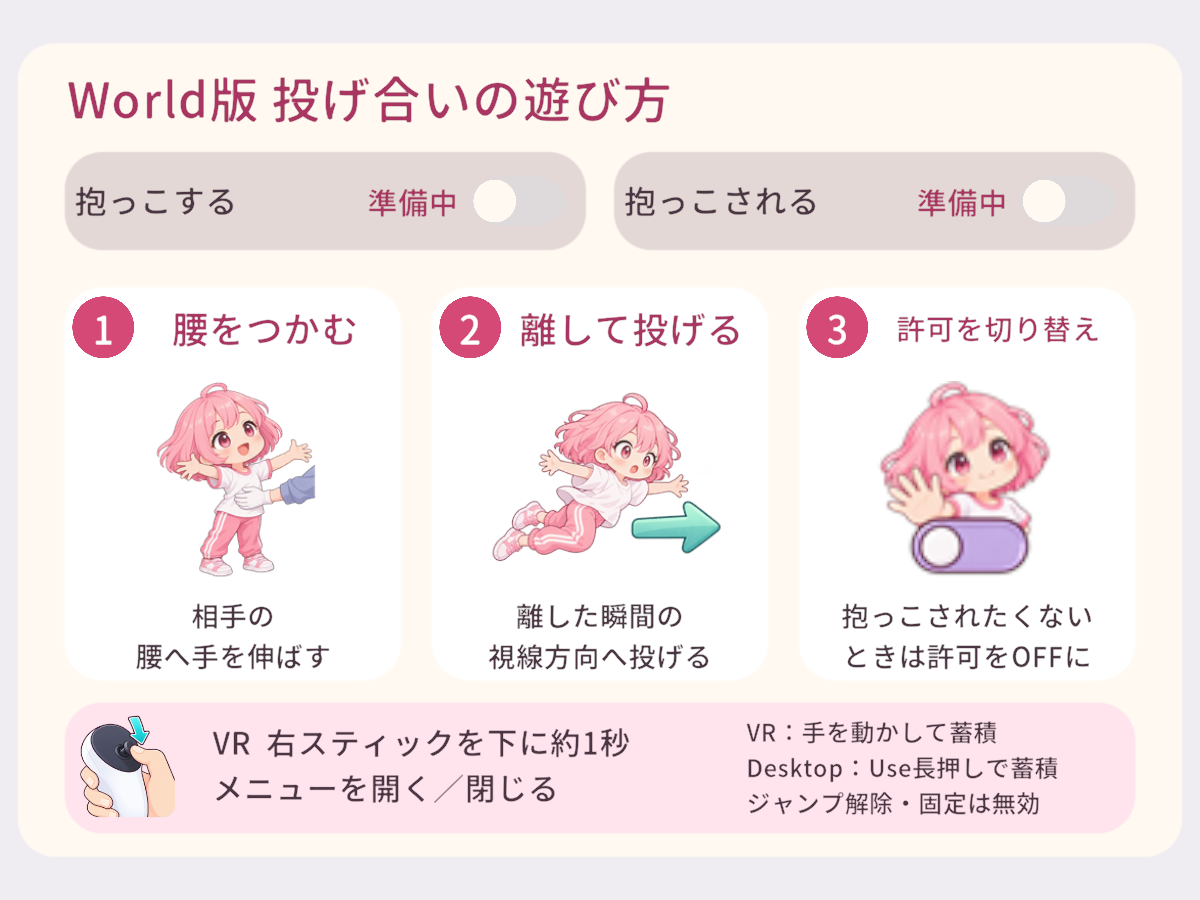
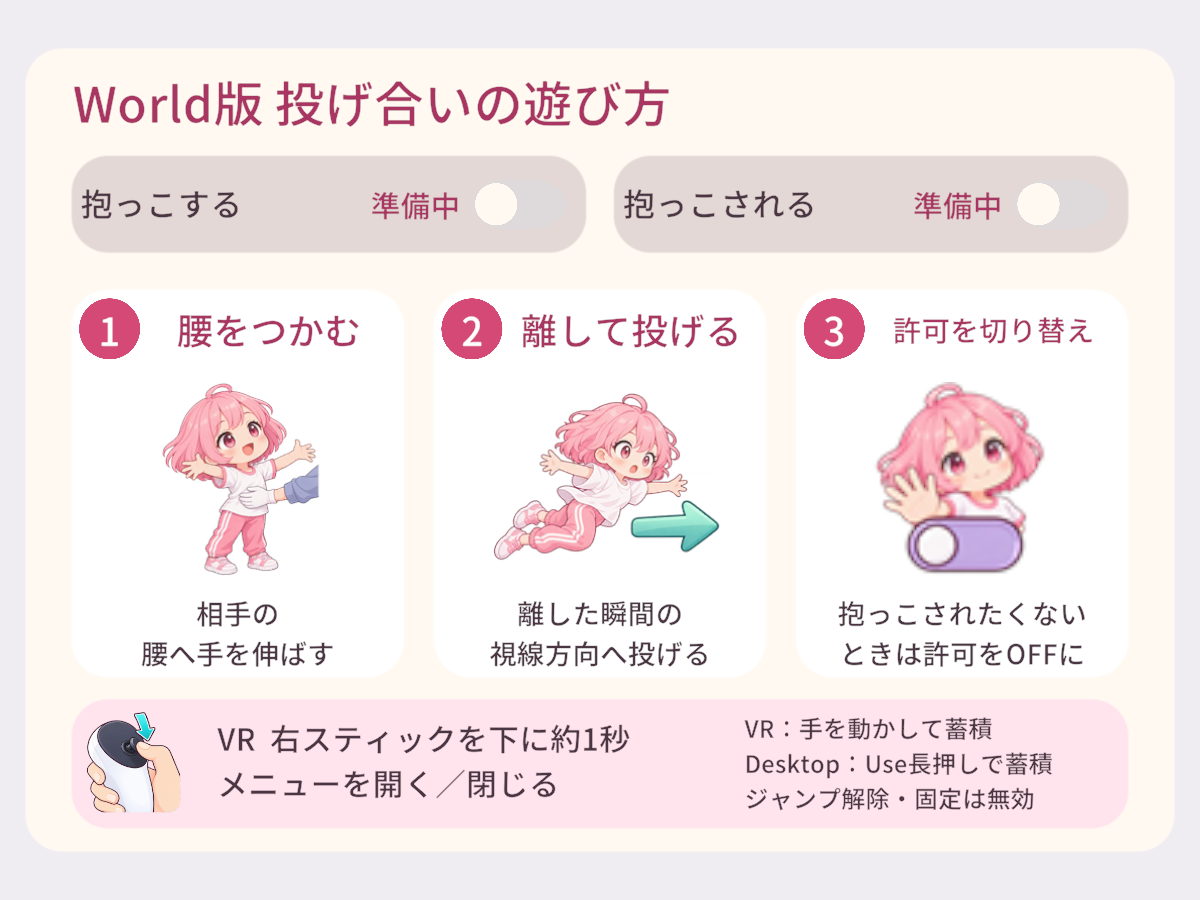
0.1.0-beta.1

diff --git a/docs/_includes/contact.html b/docs/_includes/contact.html
@@ -1,0 +1,28 @@
+<section class="contact-section" id="contact" aria-labelledby="contact-heading">
+  <h2 id="contact-heading">不具合・不明点のお問い合わせ</h2>
+  <p>導入や操作で分からないこと、不具合の報告は、Discord「あらまあ素敵なショップ」の問い合わせチャンネルへお寄せください。ワールドで遊ぶ方・ワールド制作者のどちらもご利用いただけます。</p>
+  <div class="action-row"><a class="primary" href="https://discord.gg/BJ3BpVnMna" target="_blank" rel="noopener noreferrer">Discordで問い合わせる（別タブ）</a></div>
+  <div class="contact-guide">
+    <div>
+      <ol>
+        <li>上のリンクからDiscordサーバーに参加します。</li>
+        <li>チャンネル一覧の「交流・お問い合わせ」を開きます。</li>
+        <li>「📩┃問い合わせ┃」でご相談ください。</li>
+      </ol>
+      <p>分かる範囲で、次の情報を添えていただくと状況を確認しやすくなります。</p>
+      <ul>
+        <li>分からないこと、または起きた現象と期待した動作</li>
+        <li>現象が起きるまでの手順・使用しているモード</li>
+        <li>利用環境（PCのDesktop／PCVR／Questなど）</li>
+        <li>可能であれば、画面の画像や動画、表示されたエラー</li>
+      </ul>
+      <p>ワールド制作者の方は、使用中のパッケージ・Unity・Worlds SDKのバージョンも、分かる範囲でお知らせください。</p>
+    </div>
+    <figure class="contact-shot">
+      <a href="{{ '/assets/img/discord-contact.webp' | relative_url }}" target="_blank" rel="noopener noreferrer" aria-label="Discordの問い合わせチャンネルの画像を拡大表示">
+        <img src="{{ '/assets/img/discord-contact.webp' | relative_url }}" width="322" height="472" alt="Discordのチャンネル一覧。「交流・お問い合わせ」の中にある「問い合わせ」チャンネルを選ぶ。" loading="lazy" decoding="async">
+      </a>
+      <figcaption>「交流・お問い合わせ」内の問い合わせチャンネル（画像をクリックすると拡大できます）。</figcaption>
+    </figure>
+  </div>
+</section>

diff --git a/docs/assets/css/custom.css b/docs/assets/css/custom.css
@@ -77,3 +77,12 @@
 .install-menu-shot.install-vcc-shot{max-width:1172px}
 .install-menu-shot.install-vcc-shot img{max-width:1172px}
 .install-vcc-shot a:focus-visible{outline:3px solid var(--rose);outline-offset:3px}
+
+/* Contact guide: preserve the supplied screenshot at its native size. */
+.contact-section{margin-top:2rem;padding-top:1rem;border-top:1px solid var(--line)}
+.contact-guide{display:grid;grid-template-columns:minmax(0,1fr) minmax(0,322px);gap:1.5rem;align-items:start}
+.contact-shot{margin:1rem 0;max-width:322px}
+.contact-shot a{display:block;line-height:0}
+.contact-shot img{display:block;width:100%;height:auto;margin:0!important}
+.contact-shot figcaption{font-size:.84rem;color:var(--muted);line-height:1.5;margin-top:.5rem}
+@media(max-width:700px){.contact-guide{grid-template-columns:1fr;gap:.5rem}}

diff --git a/docs/_includes/head_custom.html b/docs/_includes/head_custom.html
@@ -1,7 +1,7 @@
 <meta name="theme-color" content="#dd739e">
 {% assign page_title = page.title | default: site.title | escape %}
 {% assign page_desc = page.description | default: site.description | escape %}
-{% assign page_url = page.url | relative_url | absolute_url %}
+{% assign page_url = page.url | absolute_url %}
 <link rel="canonical" href="{{ page_url }}">
 <meta property="og:type" content="website">
 <meta property="og:locale" content="ja_JP">

diff --git a/docs/play.md b/docs/play.md
@@ -16,7 +16,12 @@ permalink: /play/
   <div class="guide"><img src="{{ '/assets/img/permission.webp' | relative_url }}" alt="許可スイッチのイラスト"><b>UIのスイッチで許可を選択</b><small>「抱っこする」と「抱っこされる」をそれぞれ設定</small></div>
 </div>
 
-**Desktop：** ワールド内に置かれた常設UIで設定します。右スティック長押しはUIの開閉だけで、許可自体は切り替わりません。
+**Desktop：** ワールド内に置かれた常設UIで設定します。VRでも常設UIを操作できます。右スティック長押しはUIの開閉だけで、許可自体は切り替わりません。呼び出したUIは表示した場所に留まり、次に開くと現在の目の前へ移動します。「閉じる」から閉じることもできます。
+
+- **「抱っこする」**：自分が相手を抱っこするかどうかを選びます。
+- **「抱っこされる」**：相手が自分を抱っこしてよいかを選びます。
+
+2つの設定は独立しています。「抱っこされる」をOFFにしても、「抱っこする」がONなら許可している相手を抱っこできます。**これらの選択は、次回のワールド訪問には保存されません。** ワールド側で「抱っこされる」が強制設定されている場合、そのスイッチは操作できません。
 
 ## 2. 抱っこする
 
@@ -25,16 +30,18 @@ permalink: /play/
   <div class="guide"><img src="{{ '/assets/img/release.webp' | relative_url }}" alt="手を離すイラスト"><b>手を離す</b><small>モードに応じて固定・投げ・通常の解除</small></div>
 </div>
 
+**VRでは両手で別々の相手を抱っこできます。Desktopは一度に1人です。** 腰の取っ手は見えないため、相手の腰付近を狙ってください。
+
 ## 3. モード別の遊び方
 
-3つのモードで操作が異なります。各画像は**クリックすると拡大**できます。
+主要3モードの標準設定での操作です。ワールド制作者が設定を変更している場合は、そのワールドの案内に従ってください。各画像は**クリックすると拡大**できます。画像は配置時の表示例です。「準備中」の部分は、ワールド内では本人の許可状態に応じて更新されます。
 
 <section class="mode-guide" id="mode-dako">
   <h3>だこちてモード</h3>
-  <p>相手の腰をつかんで抱っこ。手を離すと固定され、抱っこされた人は<strong>ジャンプで解除</strong>できます。</p>
+  <p>相手の腰をつかんで抱っこ。<strong>VRでは手首を回して相手の角度も調整</strong>できます。手を離すとその位置・姿勢で固定され、抱っこされた人は<strong>ジャンプ入力で解除</strong>できます。固定した相手を掴み直し、すぐ離して解除することもできます。</p>
   <figure>
     <a href="{{ '/assets/img/mode-dako.webp' | relative_url }}" target="_blank" rel="noopener noreferrer" aria-label="だこちてモードの操作説明画像を拡大">
-      <img src="{{ '/assets/img/mode-dako.webp' | relative_url }}" width="1200" height="900" loading="lazy" decoding="async" alt="だこちてモードの操作画面。抱っこする・抱っこされるを準備し、腰をつかむ、離すと固定、ジャンプで解除。VR右スティック下約1秒でメニューを開閉する。">
+      <img src="{{ '/assets/img/mode-dako.webp' | relative_url }}" width="1200" height="900" loading="lazy" decoding="async" alt="だこちてモードの操作画面。抱っこする・抱っこされるを準備し、腰をつかみ、VRでは手首を回して角度を調整。離すと固定、ジャンプで解除。VR右スティック下約1秒でメニューを開閉する。">
     </a>
     <figcaption>だこちてモードの遊び方（画像をクリックすると拡大）</figcaption>
   </figure>
@@ -42,7 +49,7 @@ permalink: /play/
 
 <section class="mode-guide" id="mode-gymnastics">
   <h3>組体操モード</h3>
-  <p>抱っこを<strong>連鎖</strong>させて、3人以上でもつながれます。手を離すと固定され、抱っこされた人は<strong>ジャンプで解除</strong>できます。</p>
+  <p>抱っこを<strong>連鎖</strong>させて、3人以上でもつながれます。手を離すと固定され、抱っこされた人は<strong>ジャンプ入力で解除</strong>できます。固定した相手を掴み直し、すぐ離して解除することもできます。</p>
   <figure>
     <a href="{{ '/assets/img/mode-gymnastics.webp' | relative_url }}" target="_blank" rel="noopener noreferrer" aria-label="組体操モードの操作説明画像を拡大">
       <img src="{{ '/assets/img/mode-gymnastics.webp' | relative_url }}" width="1200" height="900" loading="lazy" decoding="async" alt="組体操モードの操作画面。連鎖で抱っこ、離すと固定、ジャンプで解除。3人以上の連鎖が可能。">
@@ -53,7 +60,7 @@ permalink: /play/
 
 <section class="mode-guide" id="mode-battle">
   <h3>投げ合いモード</h3>
-  <p>相手の腰をつかんで抱っこし、手を離すと<strong>視線方向へ投げます</strong>。VRは手の動き、Desktopは<strong>Use長押し</strong>で投げる力をためます。<strong>このモードでは固定・ジャンプ解除は無効</strong>です。</p>
+  <p>相手の腰をつかんで抱っこし、手を離すと<strong>視線方向へ投げます</strong>。VRは手の動き、Desktopは<strong>Use長押し</strong>で投げる力をためます。<strong>このモードでは固定・ジャンプ解除は無効</strong>です。手を振った方向ではなく、<strong>離した瞬間に見ている方向</strong>へ投げます。</p>
   <figure>
     <a href="{{ '/assets/img/mode-battle.webp' | relative_url }}" target="_blank" rel="noopener noreferrer" aria-label="投げ合いモードの操作説明画像を拡大">
       <img src="{{ '/assets/img/mode-battle.webp' | relative_url }}" width="1200" height="900" loading="lazy" decoding="async" alt="投げ合いモードの操作画面。腰をつかみ、離して視線方向へ投げる。抱っこされる許可を切り替え可能。VRは手を動かして、DesktopはUse長押しで蓄積。ジャンプ解除と固定は無効。">
@@ -64,6 +71,14 @@ permalink: /play/
 
 **カスタムモード：** 抱っこ・固定・投げなどの動きは、ワールド制作者の設定によって異なります。
 
-<div class="note"><strong>相手が抱っこされたくない場合は無理に操作しないでください。</strong> 掴めないときは、自分の「抱っこする」と相手の「抱っこされる」がONか確認しましょう。</div>
+## 困ったとき
+
+- **相手を掴めない**：自分の「抱っこする」と相手の「抱っこされる」がONか確認します。ワールド側で機能や参加資格が制限されている場合もあります。
+- **抱っこされたくない・解除したい**：「抱っこされる」をOFFにすると、抱っこや固定を解除できます。だこちて・組体操の標準設定ではジャンプ入力でも解除できます。
+- **自分が抱っこするのをやめたい**：「抱っこする」をOFFにすると、現在抱っこしている相手を投げずに離します。すでに離して固定した相手の固定は、この操作では解除されません。
+
+<div class="note"><strong>遊ぶときは相手の同意を大切に。</strong> 許可スイッチだけでなく、その場での相手の意思も確認してください。</div>
+
+{% include contact.html %}
 
 <div class="action-row"><a href="{{ '/install/' | relative_url }}">ワールドへの導入方法</a><a href="{{ '/' | relative_url }}">トップへ戻る</a></div>

diff --git a/docs/install.md b/docs/install.md
@@ -9,7 +9,9 @@ permalink: /install/
 
 ご利用前に[利用規約（ライセンス）](https://github.com/aramaa-vr/player-carry-and-throw/blob/master/LICENSE.md)をご確認ください。
 
-ワールド制作者向けの手順です。**VCCでパッケージを追加し、Unityでモードを1つ配置するだけ**で基本の設定ができます。
+ワールド制作者向けの手順です。**VCCでパッケージを追加し、Unityで主要3モードのうち1つを配置する**のが基本です。遊ぶ人のアバターへの導入は必要ありません。
+
+追加・更新前にプロジェクトをバックアップしてください。Unity 2022.3のVRChat Worldsプロジェクトを使用します。必要なパッケージはWorlds SDK（3.10.5以上・4.0.0未満）、TextMesh Pro 3.0.6、uGUI 1.0.0です。
 
 <ol class="steps">
   <li><strong>VCCでワールドのプロジェクトを選ぶ</strong><br>VRChat Creator Companion（VCC）を開き、ギミックを導入するワールドの <strong>Manage Project</strong> を選びます。<span class="step-hint">配布リポジトリをまだ登録していない場合は、先に<a href="https://aramaa-vr.github.io/vpm-repos/redirect.html">VCCへ登録</a>してください。</span></li>
@@ -18,7 +20,7 @@ permalink: /install/
       <a href="{{ '/assets/img/vcc-manage-packages.webp' | relative_url }}" target="_blank" rel="noopener noreferrer" aria-label="VCCの検索と追加ボタンの画像を拡大表示">
         <img src="{{ '/assets/img/vcc-manage-packages.webp' | relative_url }}" alt="VCCのManage Packages画面。検索欄にだこちてギミック【ワールド版】を入力し、検索結果の右端にある＋ボタンを押して追加する。" loading="lazy" decoding="async" width="1172" height="260">
       </a>
-      <figcaption>パッケージ名で検索し、右端の「＋」から追加します（画像をクリックすると拡大できます）。</figcaption>
+      <figcaption>パッケージ名で検索し、右端の「＋」から追加します。画面の表記はVCCの言語・バージョンによって異なります（画像をクリックすると拡大できます）。</figcaption>
     </figure>
     <span class="step-hint">見つからない場合は、VCCへの配布リポジトリ登録と「Selected Repos」の選択を確認してください。</span>
   </li>
@@ -33,7 +35,7 @@ permalink: /install/
     </figure>
     <span class="step-hint">この画面が出なければ、この手順は不要です。</span>
   </li>
-  <li><strong>ワールドで確認する</strong><br>常設UIを使いやすい場所に置き、ビルドして抱っこ・解除などの動作を確認します。</li>
+  <li><strong>ワールドで確認する</strong><br>常設UIを使いやすい場所に置き、ワールドの <code>EventSystem</code> が1つあることを確認します。UdonSharpをコンパイルし、VRChat SDKでビルドして、UI操作・抱っこ・解除を確認してください。複数人での動作と、利用する端末での操作も確認します。</li>
 </ol>
 
 ## どのモードを配置する？
@@ -47,6 +49,20 @@ permalink: /install/
 
 <div class="note"><strong>配置は1 Sceneにつき1つだけ。</strong> 主要3モードは初期設定済みです。ワールドに既存の <code>EventSystem</code> がない場合は1つ用意してください。</div>
 
+### 常設UIを配置・複製する
+
+選んだモードのPrefab直下にある `DakoUI`／`GymnasticsUI`／`BattleUI` を移動して、利用者が操作しやすい場所に置きます。Desktopの利用者はこの常設UIで許可を設定します。
+
+複数箇所に置く場合は、同じシステム内の上記UIルートを複製してください。`Panel` だけや、ギミックの本体Prefab全体は複製しません。元と同じシステムへの参照を保つと、どの常設UIからでも本人の同じ許可設定を変更できます。
+
+### カスタムモードを使う場合
+
+カスタムモードは、抱っこ・投げ・固定などの動作を調整する制作者向けです。ルートのInspectorで初期設定を調整し、常設の `CustomUI` と、ワールド設定・管理権限のUIを配置します。常設UIを増やす場合は `CustomUI` だけを複製します。
+
+実行中の共有設定を変更できるのは、管理権限UIで選ばれた管理者です。「離した位置・姿勢に固定する」がONの場合は、「投げを許可」もONであっても、離すと固定されます。
+
+主要3モードの操作説明は初期設定に合わせた内容です。制作者が動作を変更する場合は、利用者向けの案内も合わせて調整してください。
+
 ### Prefabから直接配置する場合
 
 <code>Packages/jp.aramaa.player-carry-and-throw/Runtime/Prefabs/</code> にある以下のPrefabを1つ選びます。
@@ -55,5 +71,24 @@ permalink: /install/
 - 組体操：<code>PlayerCarryAndThrow_Gymnastics.prefab</code>
 - 投げ合い：<code>PlayerCarryAndThrow_Battle.prefab</code>
 - カスタム：<code>PlayerCarryAndThrow_Custom.prefab</code>
+
+共通ベースの `PlayerCarryAndThrow_Base.prefab` やUI部品を、導入用の本体として直接配置しないでください。
+
+## 更新・削除するとき
+
+更新前に、配置位置・Inspectorで変更した設定・外部スクリプトからの参照を控え、プロジェクトをバックアップします。VCCで更新した後は、ワールド内の表示と操作を再確認してください。
+
+旧構造のPrefabから更新する場合は、参照や独自設定が自動で引き継がれないことがあります。配置メニューは、シーンに本体があると新しい本体を追加できません。バックアップと設定・参照の記録を済ませてから、次の順に移行してください。
+
+1. 旧本体と、別途配置した旧UIをシーンから取り除きます。
+2. 配置メニューから、新しいモードPrefabを1つ配置します。
+3. 控えておいた配置位置・設定を反映し、外部スクリプトなどの参照を新しい本体へ設定し直します。
+4. 本体が1つだけであることと、UI・抱っこ・解除などの動作を確認します。
+
+削除するときは、先にシーン内の本体・UIと外部スクリプトからの参照を取り除き、その後VCCからパッケージを削除します。ほかのUdonも使用するため、`Assets/SerializedUdonPrograms` フォルダー全体は削除しないでください。
+
+同梱フォントは現行UI向けです。独自の説明文やプレイヤー名を追加する場合は、必要な文字を含むフォントを用意してください。同梱音源を使う場合は、[第三者素材の通知とクレジット](https://github.com/aramaa-vr/player-carry-and-throw/blob/master/Third%20Party%20Notices.md)も確認してください。
+
+{% include contact.html %}
 
 <div class="action-row"><a class="primary" href="{{ '/play/' | relative_url }}">遊び方へ進む</a></div>

diff --git a/README.md b/README.md
@@ -2,15 +2,18 @@
 
 GitHub Pages / Jekyll（just-the-docs）で公開する説明ページです。閲覧者向けの内容は「トップ」「ワールドへの導入」「遊び方」の3ページのみです。「遊び方」には各モードのUI画像3枚を掲載しています。
 
+導入・遊び方の各ページにはDiscordの問い合わせ案内を掲載し、トップからも移動できます。案内の共通部分は `docs/_includes/contact.html` で管理します。
+
 ## 説明ページに使う画像
 
 - `docs/assets/img/vcc-manage-packages.webp` — VCCでパッケージ名を検索し、右端の「＋」で追加する画面
+- `docs/assets/img/discord-contact.webp` — Discordの問い合わせチャンネル（ユーザー提供画像）
 - `docs/assets/img/tmp-importer.webp` — TMP Essentialsの導入
 - `docs/assets/img/mode-dako.webp` — だこちてモードの遊び方
 - `docs/assets/img/mode-gymnastics.webp` — 組体操モードの遊び方
 - `docs/assets/img/mode-battle.webp` — 投げ合いモードの遊び方
 
-添付スクリーンショットと操作UI画像を、画質を保持した可逆圧縮のWebP形式で収録しています。画像は説明ページから拡大できます。
+操作UI画像は現行PrefabをUnityで描画し、可逆圧縮のWebP形式で収録しています。VCCの導入案内とTMP Importerの案内はスクリーンショットです。画像は説明ページから拡大できます。
 
 ## 公開方法
 

diff --git a/docs/index.md b/docs/index.md
@@ -25,7 +25,7 @@ permalink: /
   </div>
 </div>
 
-## 遊べる3つのモード
+## 配置するだけで遊べる3つのモード
 
 <div class="tiles">
   <div class="tile">
@@ -45,8 +45,14 @@ permalink: /
   </div>
 </div>
 
+細かく動作を調整したい制作者向けに、カスタムモードも用意しています。主要3モードを含め、本体は1シーンにつき1つ配置します。
+
 <div class="note"><strong>遊ぶときは相手の同意を大切に。</strong> 抱っこする・抱っこされる許可は、ワールド内の個人UIから変更できます。</div>
 
 <div class="action-row"><a href="{{ '/play/' | relative_url }}">操作方法を確認する</a></div>
+
+<p>制作：あらまあ ／ あらまあ素敵なショップ</p>
+
+<div class="action-row"><a href="{{ '/install/#contact' | relative_url }}">不具合・不明点のお問い合わせ</a></div>
 
 <p class="legal-links"><a href="https://github.com/aramaa-vr/player-carry-and-throw/blob/master/LICENSE.md">利用規約（ライセンス）</a></p>
